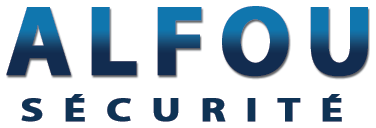
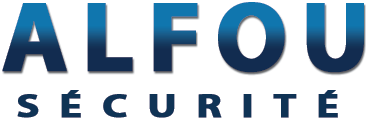
tweak header

diff --git a/src/app/home/header/header.component.html b/src/app/home/header/header.component.html
@@ -5,10 +5,11 @@
     <button color="accent" mat-raised-button (click)="onSigninOrSignout()">{{isAuthenticated ? 'Se déconnecter': 'Se connecter'}}</button>
   </div>
   <div class="header" fxLayout="column" fxLayoutAlign="center center">
-    <h1>Alfou-sécurité</h1>
-    <p>
+    <img src="/favicon.ico">
+    <img src="/assets/title.png">
+    <h2>
       Bla bla bla !!!!!!!!
-    </p>
+    </h2>
     <a mat-raised-button color="accent" href="#contact">Contactez-nous</a>
   </div>
 </div>

diff --git a/src/app/home/footer/footer.component.html b/src/app/home/footer/footer.component.html
@@ -24,7 +24,7 @@
           <p>Tél. : +(212) 05 22 75 11 32</p>
           <p>Fax. : +(212) 05 22 75 11 33</p>
           <p>GSM : +(212) 06 61 97 87 98</p>
-          <p>Email: info@alfou.net</p>
+          <p>Email : info@alfou.net</p>
         </div>
   </div>
   <div class="logo">

diff --git a/src/app/home/header/header.component.css b/src/app/home/header/header.component.css
@@ -14,3 +14,7 @@
 .menu a {
     font-size: 20px;
 }
+
+img {
+    width: 25vh;
+}
